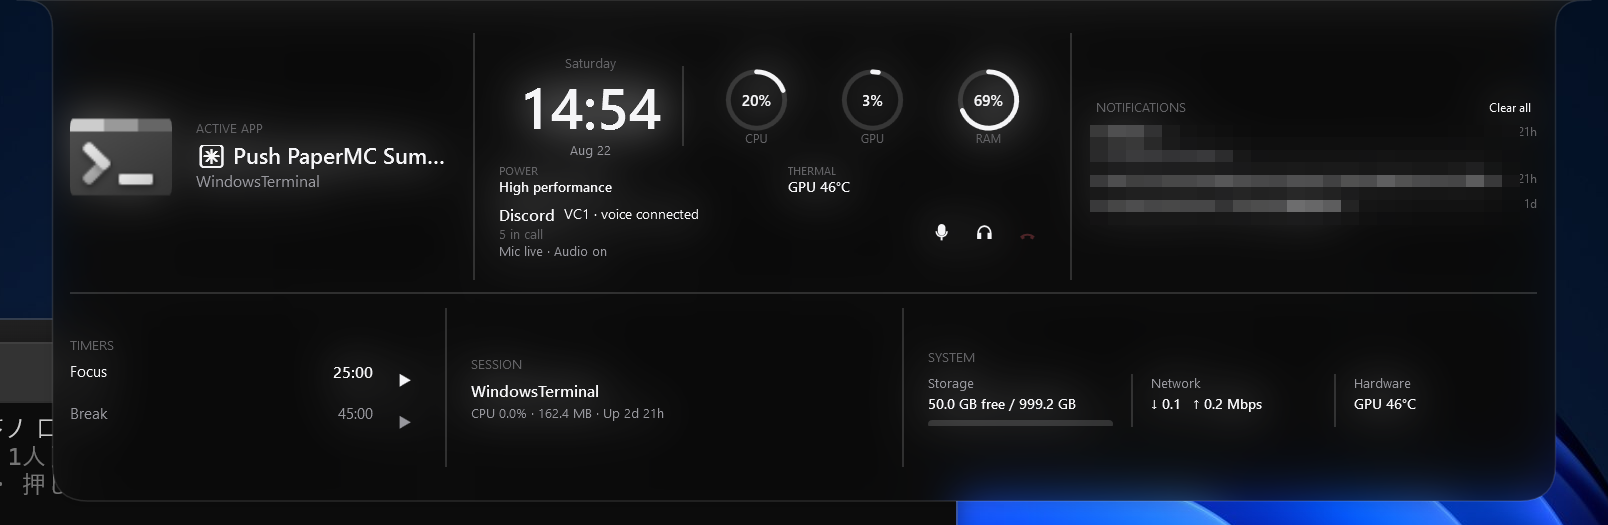
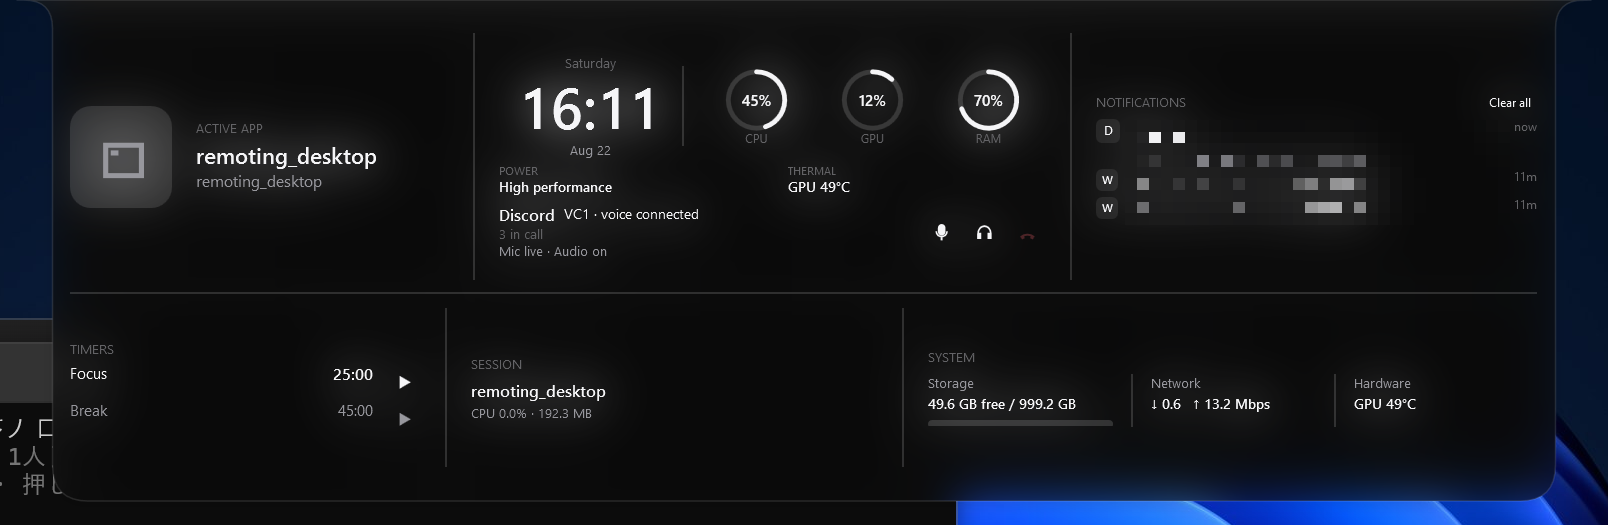
Refresh expanded screenshots with richer live data

diff --git a/README.md b/README.md
@@ -36,8 +36,8 @@ TopIsland currently uses real Windows/application data for:
 - Network download/upload throughput
 - System-drive free/total storage
 - Active browser/download-manager partial downloads, including current bytes and measured transfer speed when available
-- Built-in **Focus timer** with 25/45-minute presets, pause/resume and reset
-- Windows notifications: count, source app and latest text when notification-listener access is allowed, plus a real Clear all action
+- Built-in **Focus timer** with 25/45-minute presets, pause/resume, reset and an Expanded progress indicator while active
+- Windows notifications: count, source app, app logo when Windows exposes it (initial badge fallback), latest text when notification-listener access is allowed, plus a real Clear all action
 - Battery level/charging state on devices that actually have a battery
 - Clock and date
 
@@ -51,7 +51,7 @@ Notification permission is never requested automatically. If access is not alrea
 - **Peek** — reveals selected lower-priority information without opening the full surface
 - **Expanded** — Context/Now Playing, a large clock-centered Overview with CPU/GPU/RAM and Discord voice controls, and Notifications when present. The lower row is Timers, SESSION (foreground process telemetry) or active Downloads, and Storage / Network / Hardware
 
-Smaller widths remove information instead of shrinking every label. When no download is moving, the lower middle lane shows the foreground **SESSION** (process, memory, CPU, threads and uptime); an active download replaces that lane instead of creating another permanent card. Downloads still exists only while a partial download is actively changing: otherwise the same middle lane becomes SESSION with foreground-process CPU, memory and uptime. Discord controls appear only while voice is connected, and Notifications collapse when unavailable. Full Width uses the otherwise empty center for Focus / Voice / active Downloads / Network / Storage instead of stretching artwork or text. Its right-edge settings gear opens the same real TopIsland context menu used by the tray/overlay. The Expanded clock remains the visual anchor above the two-row information layout.
+Smaller widths remove information instead of shrinking every label. When no download is moving, the lower middle lane shows the foreground **SESSION** (process, memory, CPU, threads and uptime); an actively changing partial download replaces that lane instead of creating another permanent card. Discord controls appear only while voice is connected, and Notifications collapse when unavailable. Full Width uses the otherwise empty center for Focus / Voice / active Downloads / Network / Storage instead of stretching artwork or text. Its right-edge settings gear opens the same real TopIsland context menu used by the tray/overlay. The Expanded clock remains the visual anchor above the two-row information layout.
 
 ## Screenshots
 
